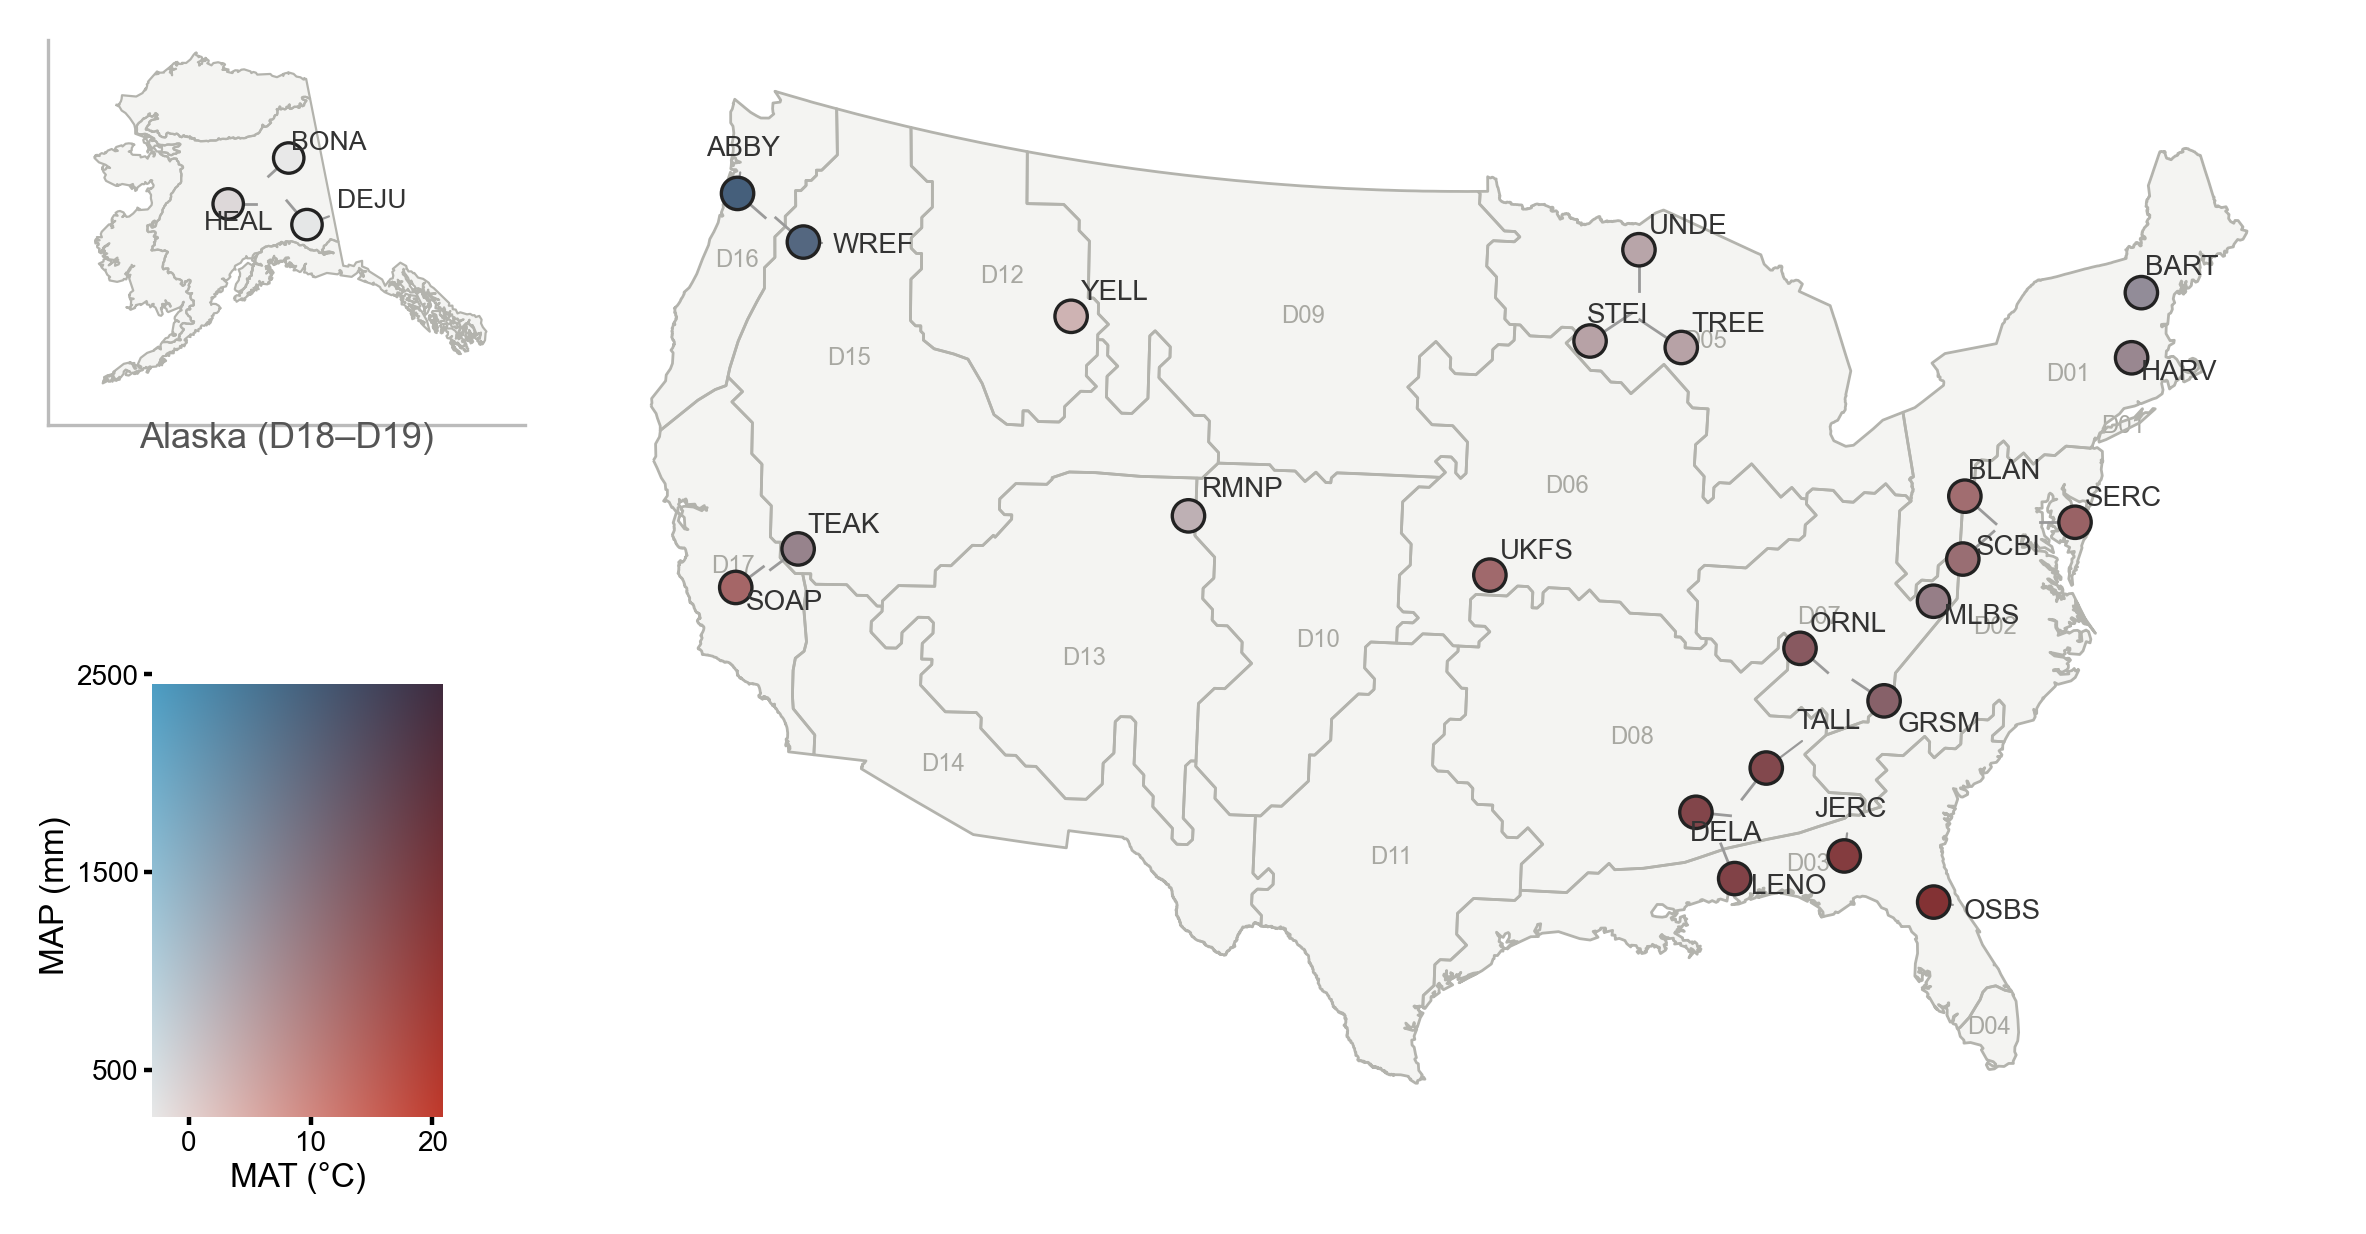
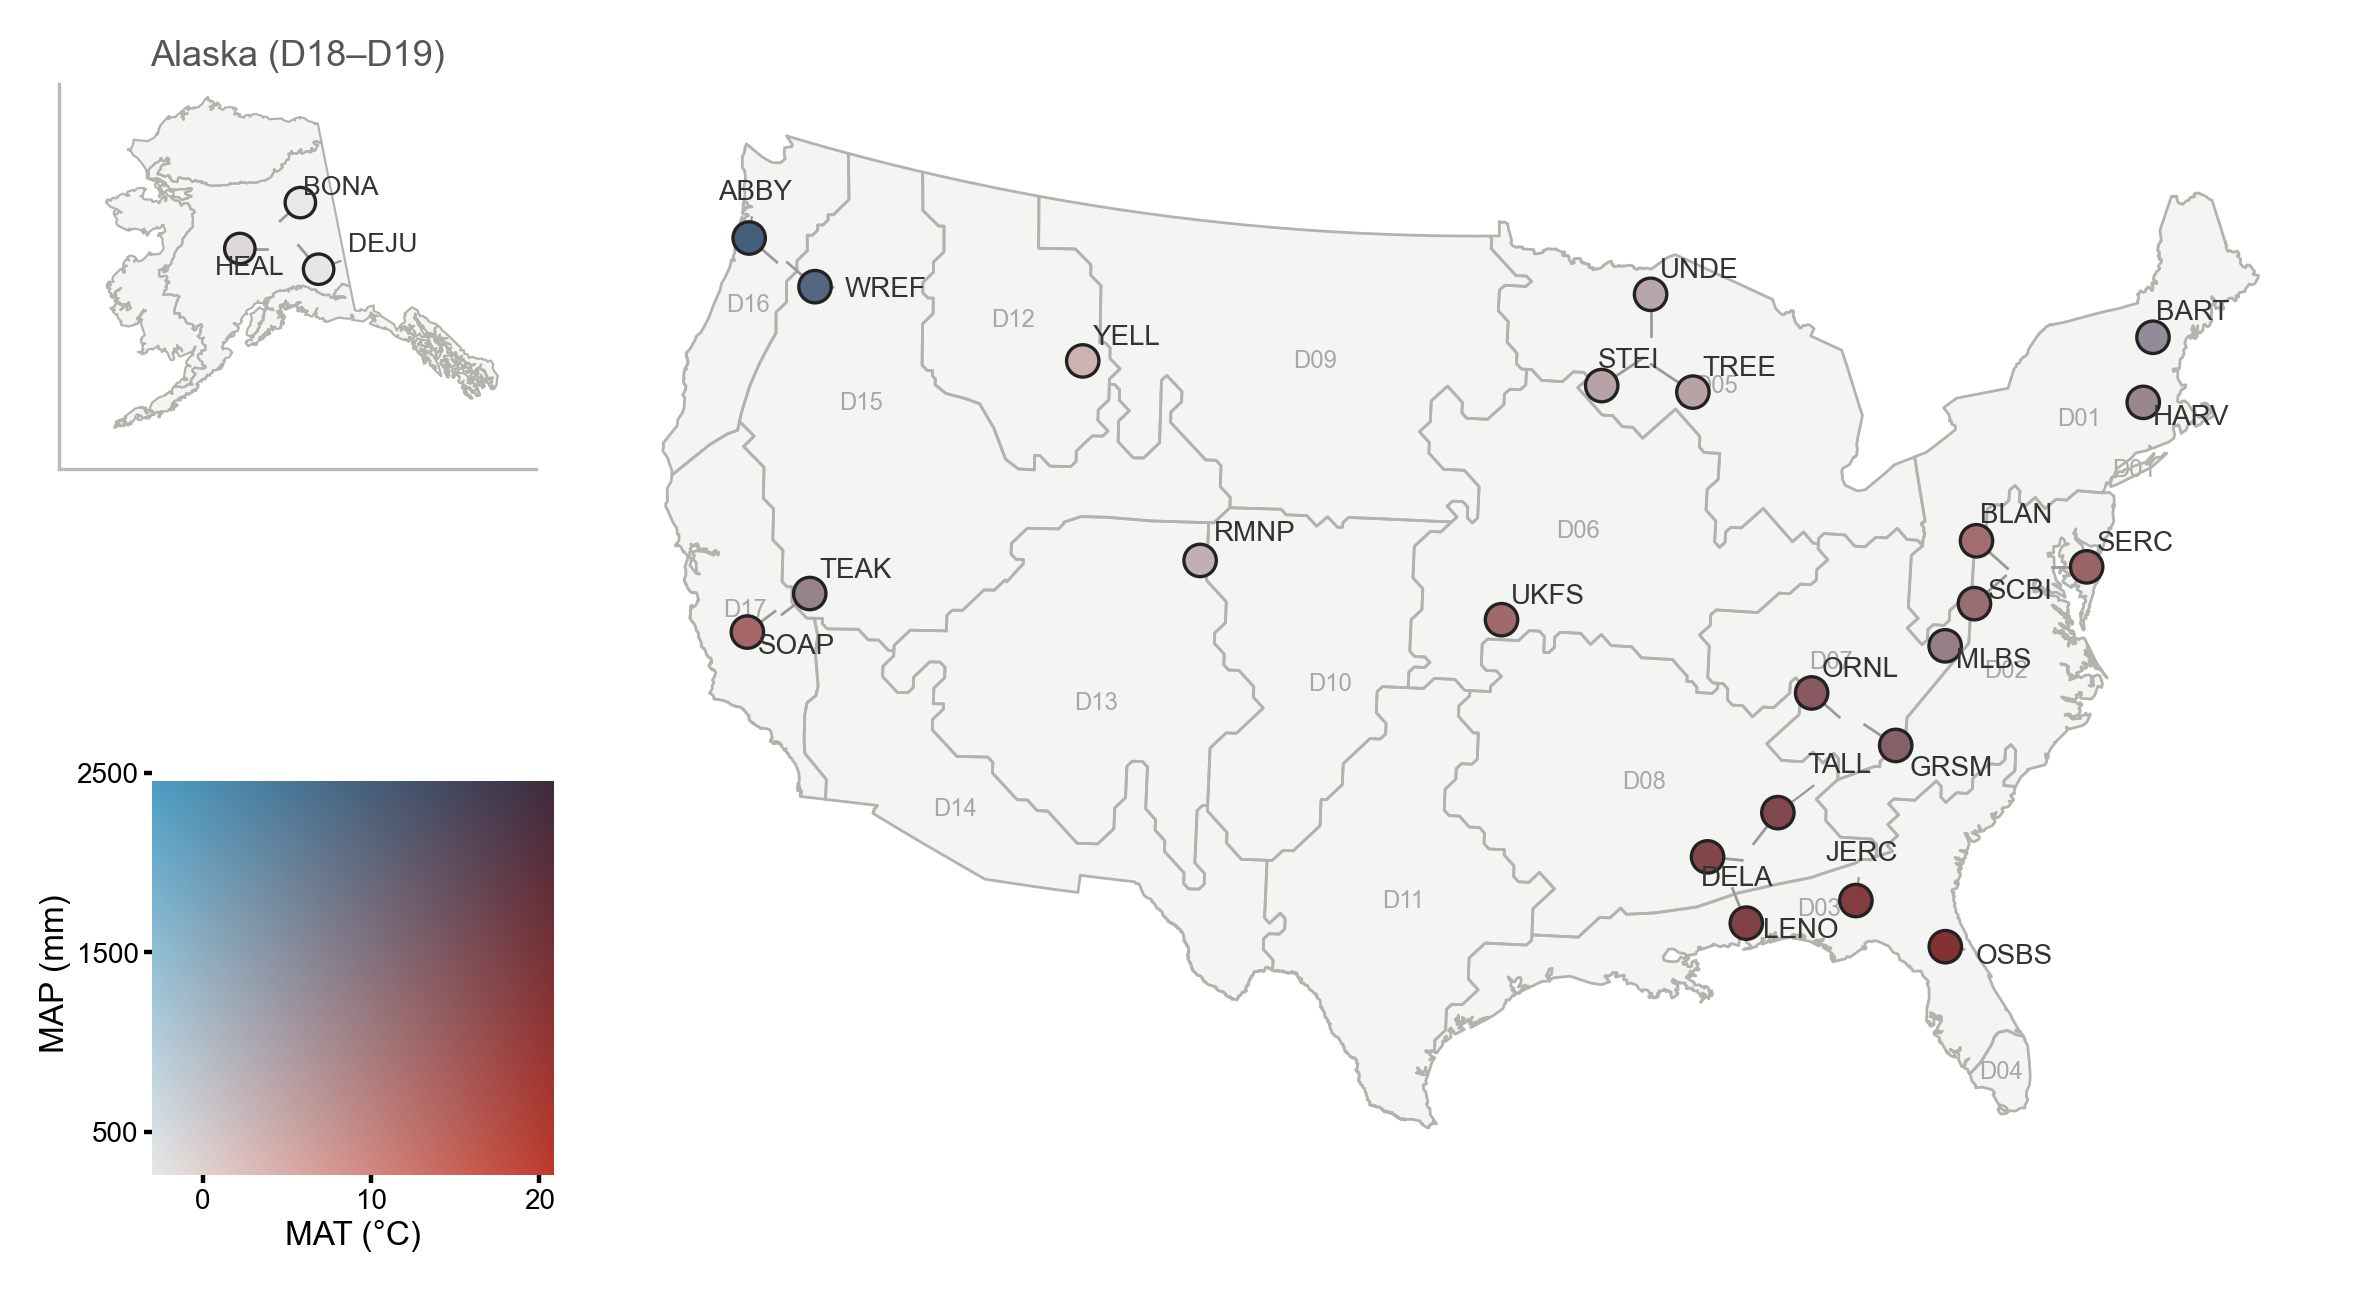
Fig 2 polish: square bivariate legend (inch-true), Alaska subtitle above the panel
Claude-Session: https://claude.ai/code/session_014QmjDFaec9SLSW3vnUrtQu

diff --git a/scripts_pipeline/make_manuscript_figures.py b/scripts_pipeline/make_manuscript_figures.py
@@ -146,7 +146,7 @@ autolab(axk,akx,aky,pak.siteID.values,fs=4.8)
 axk.set_xlim(-0.9e6,1.7e6); axk.set_ylim(0.35e6,2.45e6)
 axk.set_xticks([]); axk.set_yticks([])
 for sp in axk.spines.values(): sp.set_edgecolor("#bbbbbb"); sp.set_linewidth(0.6)
-axk.text(0.5,-0.06,"Alaska (D18–D19)",transform=axk.transAxes,ha="center",fontsize=6.5,color="#555555")
+axk.text(0.5,1.03,"Alaska (D18–D19)",transform=axk.transAxes,ha="center",va="bottom",fontsize=6.5,color="#555555")
 # --- CONUS panel ---
 conus_dom.plot(ax=axu,color="#f4f4f2",edgecolor="none")
 conus_dom.boundary.plot(ax=axu,color="#b3b3ad",lw=0.5)
@@ -157,7 +157,8 @@ usx,usy=draw_sites(axu,p48,DOTOFF,34)
 autolab(axu,usx,usy,p48.siteID.values,fs=5.0)
 axu.set_axis_off()
 # --- continuous bivariate legend (MAT x MAP), bottom-left of the figure (below Alaska) ---
-lax=fig.add_axes([0.055,0.10,0.125,0.33])
+_figw,_figh=fig.get_size_inches(); _lh=0.30; _lw=_lh*_figh/_figw   # square legend (in inches)
+lax=fig.add_axes([0.050,0.09,_lw,_lh])
 NG=200
 grid=np.zeros((NG,NG,3))
 for j,y in enumerate(np.linspace(0,1,NG)):
